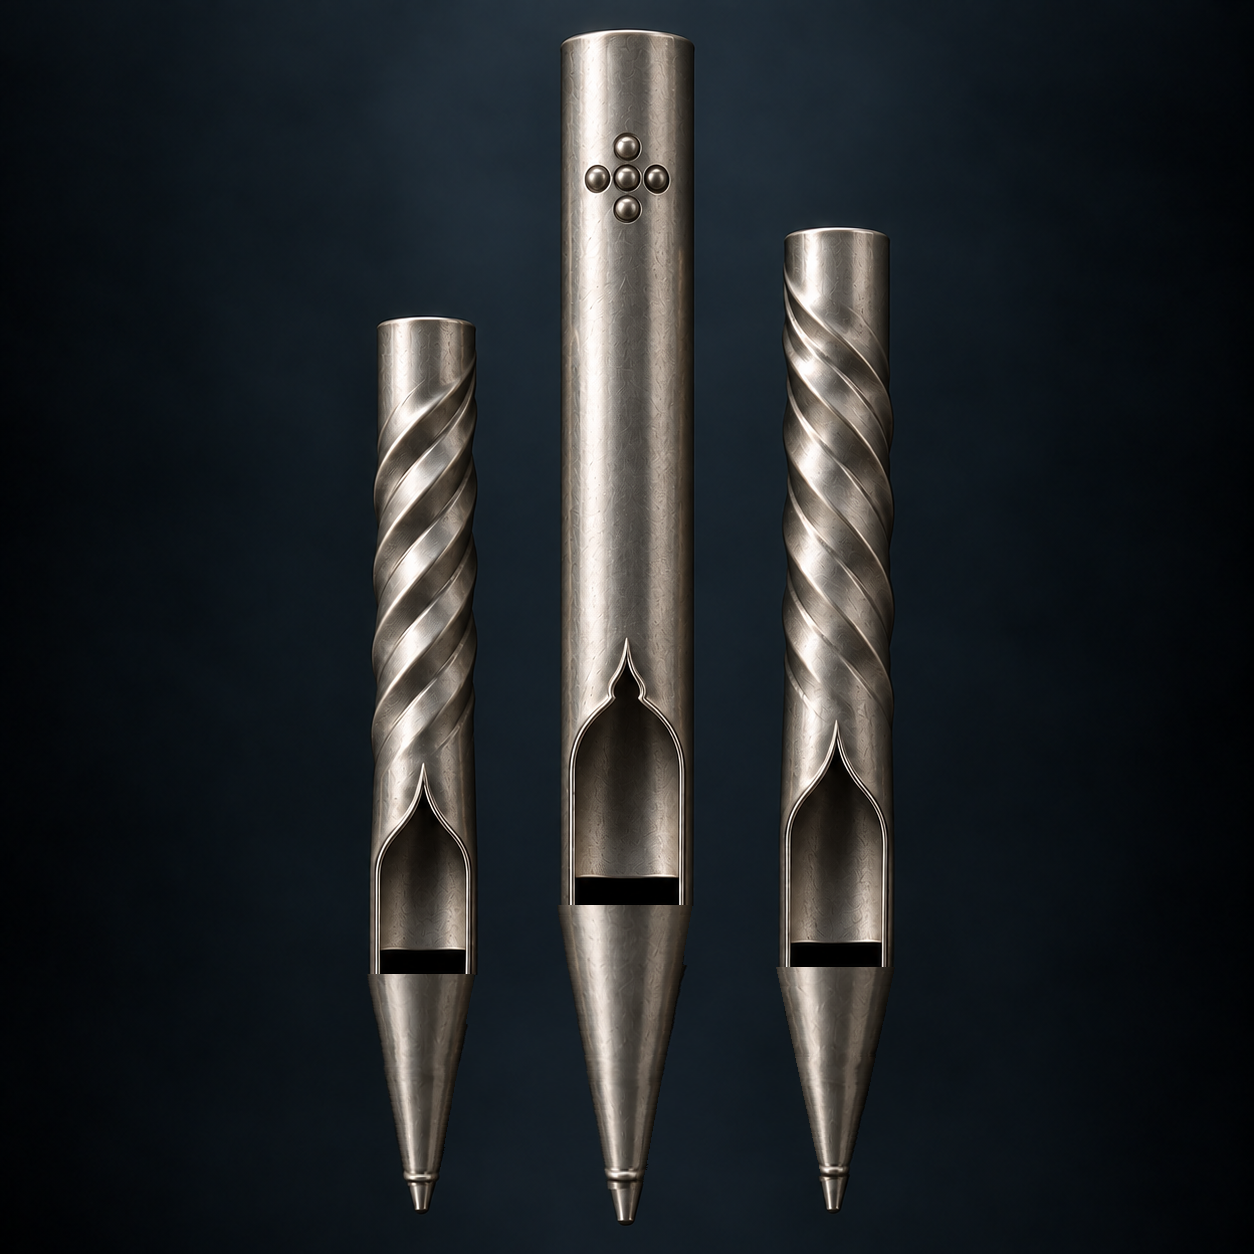
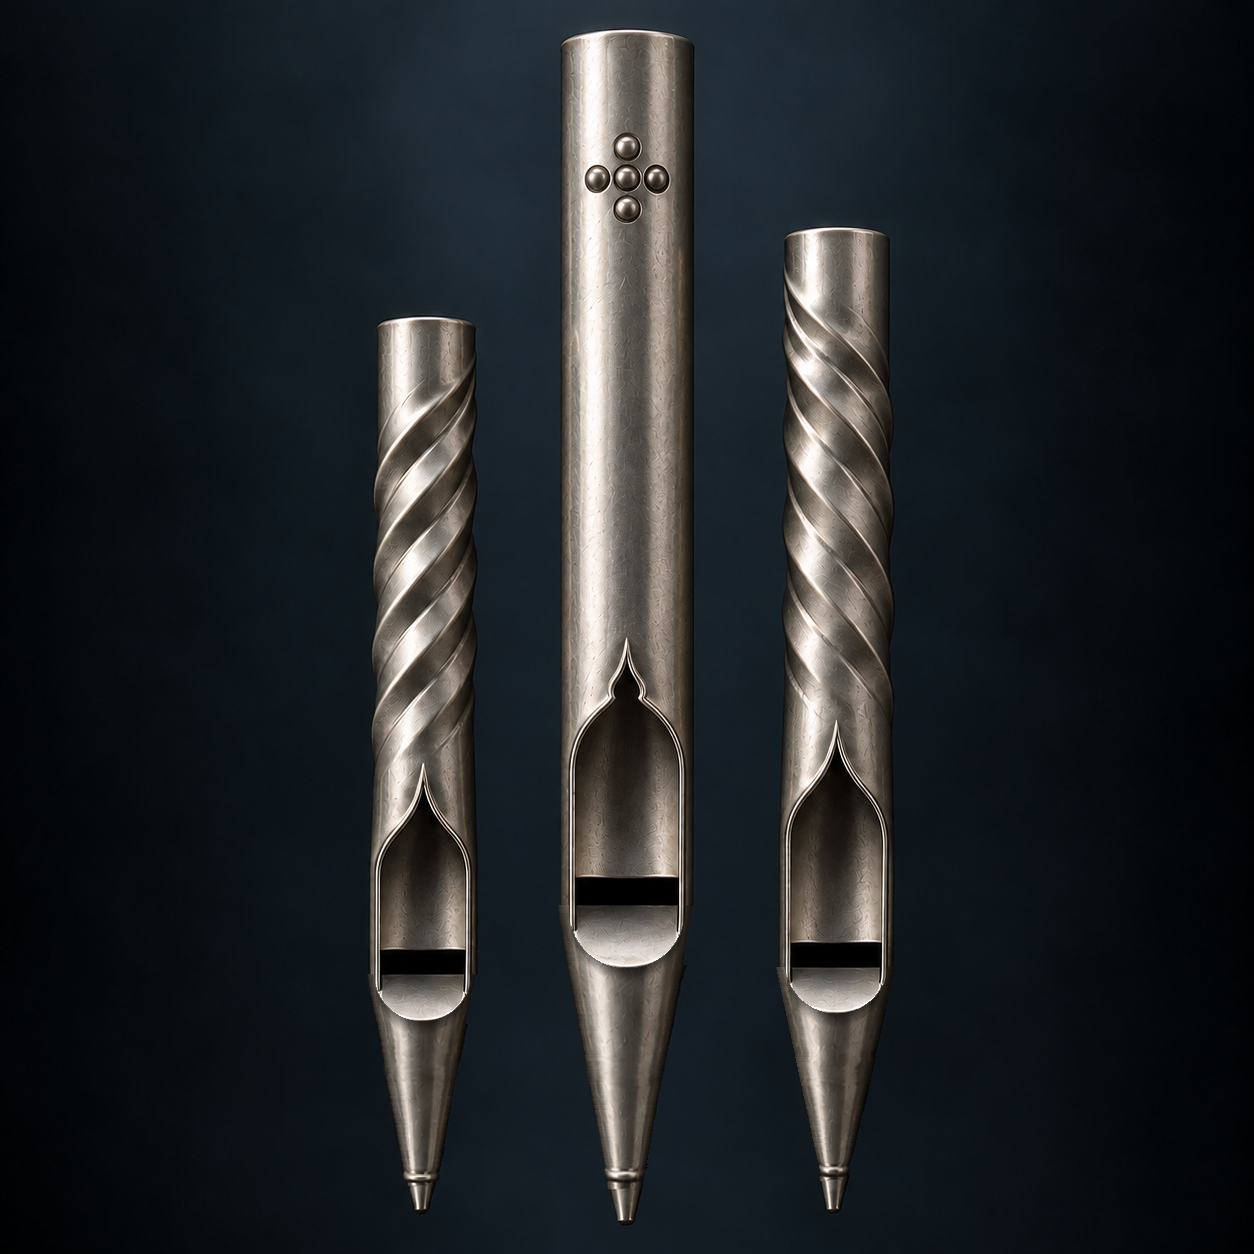
0.8.67: the three original upper lips, smooth feet with the raised lower lip back over them; the flame lips withdrawn

Changed region(s): [[0.4354, 0.7153, 0.5598, 0.7775], [0.622, 0.7464, 0.7153, 0.8397], [0.2799, 0.7775, 0.3732, 0.8397]]

diff --git a/site/index.html b/site/index.html
@@ -25,7 +25,7 @@
         <p class="intro">OrganSampler plays sampled pipe organs from plain folders of WAV files - one folder per stop, one recording per pipe - and turns any number of such folders into an organ of your own design.</p>
         <p>No organ definition file, no installer, no account. Load the folders, let the program propose the organ, shape it - divisions, stops, perspectives, audio routes, voicing - and save it as a configuration. Free software under the GNU GPL v3 for Windows, macOS and Linux.</p>
         <div class="actions"><a class="button primary" href="#download">Download <span aria-hidden="true">&darr;</span></a><a class="button secondary" href="#explore">What is inside</a></div>
-        <p class="availability"><span class="status-dot" aria-hidden="true"></span> Version <span data-version>0.8.66</span> &middot; Windows x64 &middot; macOS &middot; Linux x64 &middot; one portable executable</p>
+        <p class="availability"><span class="status-dot" aria-hidden="true"></span> Version <span data-version>0.8.67</span> &middot; Windows x64 &middot; macOS &middot; Linux x64 &middot; one portable executable</p>
       </div>
       <div class="hero-art">
         <img id="hero-pipes" src="assets/pipes.png" width="1250" height="1250" alt="Three metal organ pipes on a dark background" loading="eager">
@@ -33,7 +33,7 @@
           // The middle pipe's upper lip differs from picture to picture: one of
           // them, drawn at random, on every visit.
           (function () {
-            var variants = ["pipes.png", "pipes-2.png", "pipes-3.png", "pipes-4.png", "pipes-5.png", "pipes-6.png"];
+            var variants = ["pipes.png", "pipes-2.png", "pipes-3.png"];
             var pick = variants[Math.floor(Math.random() * variants.length)];
             var img = document.getElementById("hero-pipes");
             if (img && pick !== "pipes.png") img.src = "assets/" + pick;
@@ -87,7 +87,7 @@
           <a class="button primary" href="https://github.com/zurek-jiri/OrganSampler/releases" data-repo-suffix="/releases">Releases &amp; changelog &rarr;</a>
           <a class="text-link" href="https://github.com/zurek-jiri/OrganSampler/blob/main/OrganSampler/USER_MANUAL.md" data-repo-path="OrganSampler/USER_MANUAL.md">Read the user manual &#8599;</a>
           <a class="text-link" href="https://github.com/zurek-jiri/OrganSampler#building" data-repo-suffix="#building">Build from source &#8599;</a>
-          <p class="small">Version <span data-version>0.8.66</span>. Source, issues and configurations on <a href="https://github.com/zurek-jiri/OrganSampler" data-repo-suffix="">GitHub</a>.</p>
+          <p class="small">Version <span data-version>0.8.67</span>. Source, issues and configurations on <a href="https://github.com/zurek-jiri/OrganSampler" data-repo-suffix="">GitHub</a>.</p>
         </div>
       </div>
     </section>

diff --git a/OrganSampler/CHANGELOG.md b/OrganSampler/CHANGELOG.md
@@ -12,6 +12,16 @@ The version lives in one place per artefact and must be changed together:
 and the `JUCE_APP_VERSION` defines in `OrganSampler_App.vcxproj`. The window
 title shows the version. Released executables are named `OrganSampler_<version>.exe`.
 
+## [0.8.67] - 2026-10-14
+
+### Changed
+- Pictures: the three upper lips as they were (the pointed arch and the two
+  variants), every foot one smooth cone from the mouth slit to the soldered
+  tip, and the raised lower lip with its rounded rim back over the cone, with
+  its shadow. The flame-shaped lips of 0.8.65 and 0.8.66 are withdrawn: their
+  rims and shading were not photorealistic. The two largest icons follow the
+  main picture.
+
 ## [0.8.66] - 2026-10-14
 
 ### Changed

diff --git a/configurations/rural-organ/README.md b/configurations/rural-organ/README.md
@@ -49,7 +49,7 @@ Rural Organ/
 `Rural Organ.json` in this folder is the same portable configuration as in
 the package: saved with "Portable configuration (to share with others)", so
 it carries the organ only - no MIDI devices, no audio devices, nothing of
-the computer it was made on. Saved with OrganSampler 0.8.66.
+the computer it was made on. Saved with OrganSampler 0.8.67.
 
 - Organ: a Czech village organ, three divisions, recorded dry.
 - Samples: Sonus Paradisi, provided free of charge with OrganSampler to try
